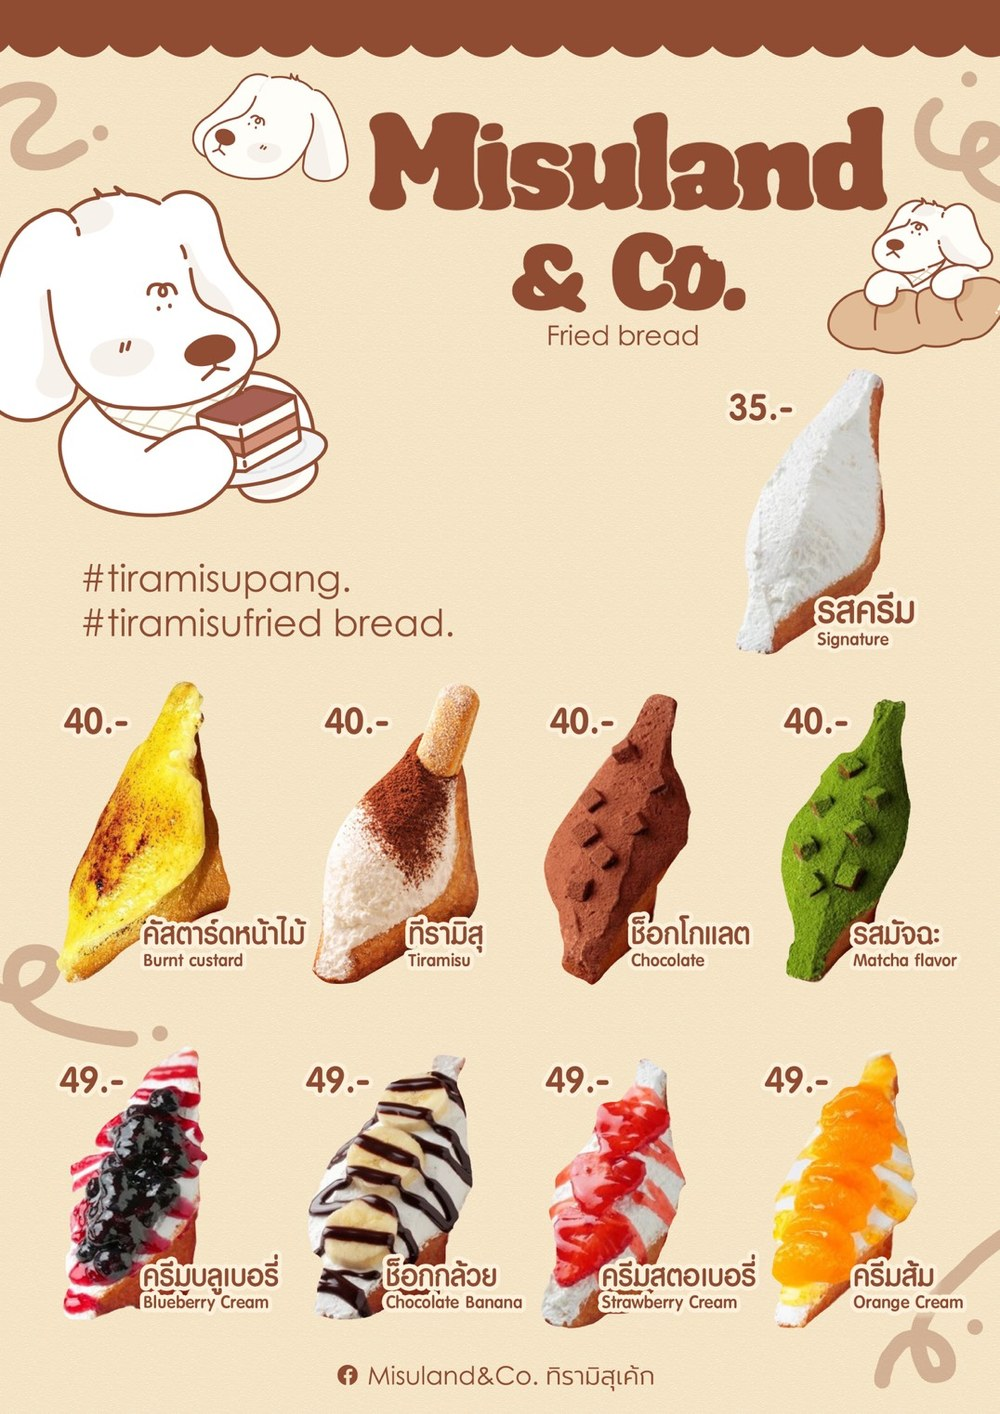
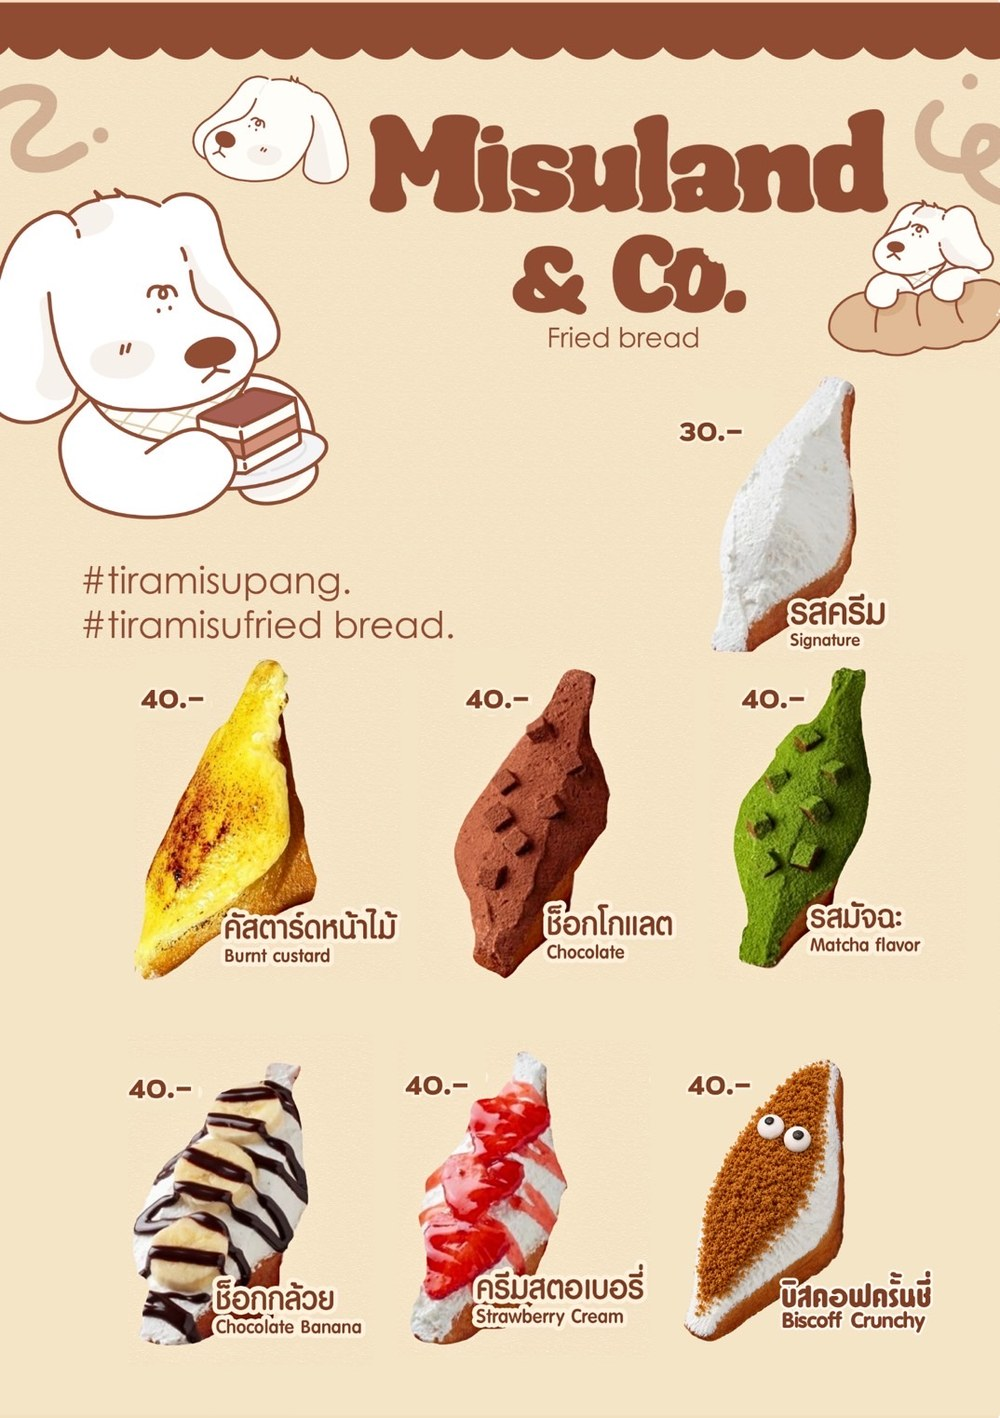
เมนู KS: เพิ่มรูปดูไบ+บิสคอฟ, อัปเดตโปสเตอร์รวม, เพิ่มตัวเลือกรับเอง
- ดูไบ + บิสคอฟครันชี่ ใส่รูปจริง (assets/menu/dubai.jpg, biscoff.jpg) -> ครบ 8 รส
- เปลี่ยน menu-full.jpg เป็นโปสเตอร์ KS 7 รส
- เพิ่มตัวเลือกจัดส่ง "🚗 มารับเองที่ล่างหอ (ฟรีค่าส่ง)"

diff --git a/index-v2.html b/index-v2.html
@@ -182,8 +182,8 @@ section:first-of-type{margin-top:20px;}
     <div class="label"><span class="ic">📍</span>ข้อมูลจัดส่ง</div>
     <div class="field"><label>ชื่อเล่น <small style="color:var(--muted);font-weight:500">(ชื่อเดียวกับในโอเพนแชท)</small></label><input id="f-name" placeholder="ชื่อเดียวกับในโอเพนแชท"></div>
     <div class="field"><label>เบอร์ / LINE ติดต่อ</label><input id="f-contact" placeholder="0xx-xxx-xxxx"></div>
-    <div class="field"><label>โซนจัดส่ง 🚚 <small style="color:var(--muted);font-weight:500">(ค่าส่งคิดตามโซน)</small></label>
-      <select id="f-zone"><option value="">— เลือกโซนจัดส่ง —</option></select></div>
+    <div class="field"><label>รับเอง หรือ จัดส่ง? 🚚 <small style="color:var(--muted);font-weight:500">(มารับเองที่ล่างหอ = ส่งฟรี 0฿)</small></label>
+      <select id="f-zone"><option value="">— เลือกรับเอง / โซนจัดส่ง —</option></select></div>
     <div class="field"><label>หอ/ตึก + ห้อง (ระบุให้ชัด)</label><input id="f-dorm" placeholder="เช่น หอใน 3 ตึก B ห้อง 210"></div>
     <div class="field"><label>หมายเหตุ (ไม่บังคับ)</label><textarea id="f-note" rows="2" placeholder="เช่น แจ้งสิทธิ์ลูกค้าวันแรก 25 มิ.ย."></textarea></div>
   </section>
@@ -267,12 +267,13 @@ const MENU=[
     {name:"คัสตาร์ดหน้าไหม้", price:40, emoji:"🍮", img:"assets/menu/custard.jpg"},
     {name:"ช็อกกล้วย", price:40, emoji:"🍌", img:"assets/menu/chocbanana.jpg"},
     {name:"ครีมสตรอเบอรี่", price:40, emoji:"🍓", img:"assets/menu/strawberry.jpg"},
-    {name:"ช็อกโกแลตดูไบ", price:50, emoji:"💚", tag:"ใหม่"},
-    {name:"บิสคอฟครันชี่", price:40, emoji:"🍪", tag:"ใหม่"},
+    {name:"ช็อกโกแลตดูไบ", price:50, emoji:"💚", tag:"ใหม่", img:"assets/menu/dubai.jpg"},
+    {name:"บิสคอฟครันชี่", price:40, emoji:"🍪", tag:"ใหม่", img:"assets/menu/biscoff.jpg"},
   ]},
 ];
 
 const ZONES=[
+  {label:"🚗 มารับเองที่ล่างหอ (ฟรีค่าส่ง)", fee:0},
   {label:"หอ VS (ส่งฟรี)", fee:0},
   {label:"หน้า ม.เกษตร กำแพงแสน (หอพัก/ร้านค้า)", fee:10},
   {label:"หอมาตาล/AW/นกฯ/บ้านแสนสุข/ในซอยชบาขึ้นไป", fee:15},

diff --git a/index.html b/index.html
@@ -182,8 +182,8 @@ section:first-of-type{margin-top:20px;}
     <div class="label"><span class="ic">📍</span>ข้อมูลจัดส่ง</div>
     <div class="field"><label>ชื่อเล่น <small style="color:var(--muted);font-weight:500">(ชื่อเดียวกับในโอเพนแชท)</small></label><input id="f-name" placeholder="ชื่อเดียวกับในโอเพนแชท"></div>
     <div class="field"><label>เบอร์ / LINE ติดต่อ</label><input id="f-contact" placeholder="0xx-xxx-xxxx"></div>
-    <div class="field"><label>โซนจัดส่ง 🚚 <small style="color:var(--muted);font-weight:500">(ค่าส่งคิดตามโซน)</small></label>
-      <select id="f-zone"><option value="">— เลือกโซนจัดส่ง —</option></select></div>
+    <div class="field"><label>รับเอง หรือ จัดส่ง? 🚚 <small style="color:var(--muted);font-weight:500">(มารับเองที่ล่างหอ = ส่งฟรี 0฿)</small></label>
+      <select id="f-zone"><option value="">— เลือกรับเอง / โซนจัดส่ง —</option></select></div>
     <div class="field"><label>หอ/ตึก + ห้อง (ระบุให้ชัด)</label><input id="f-dorm" placeholder="เช่น หอใน 3 ตึก B ห้อง 210"></div>
     <div class="field"><label>หมายเหตุ (ไม่บังคับ)</label><textarea id="f-note" rows="2" placeholder="เช่น แจ้งสิทธิ์ลูกค้าวันแรก 25 มิ.ย."></textarea></div>
   </section>
@@ -267,12 +267,13 @@ const MENU=[
     {name:"คัสตาร์ดหน้าไหม้", price:40, emoji:"🍮", img:"assets/menu/custard.jpg"},
     {name:"ช็อกกล้วย", price:40, emoji:"🍌", img:"assets/menu/chocbanana.jpg"},
     {name:"ครีมสตรอเบอรี่", price:40, emoji:"🍓", img:"assets/menu/strawberry.jpg"},
-    {name:"ช็อกโกแลตดูไบ", price:50, emoji:"💚", tag:"ใหม่"},
-    {name:"บิสคอฟครันชี่", price:40, emoji:"🍪", tag:"ใหม่"},
+    {name:"ช็อกโกแลตดูไบ", price:50, emoji:"💚", tag:"ใหม่", img:"assets/menu/dubai.jpg"},
+    {name:"บิสคอฟครันชี่", price:40, emoji:"🍪", tag:"ใหม่", img:"assets/menu/biscoff.jpg"},
   ]},
 ];
 
 const ZONES=[
+  {label:"🚗 มารับเองที่ล่างหอ (ฟรีค่าส่ง)", fee:0},
   {label:"หอ VS (ส่งฟรี)", fee:0},
   {label:"หน้า ม.เกษตร กำแพงแสน (หอพัก/ร้านค้า)", fee:10},
   {label:"หอมาตาล/AW/นกฯ/บ้านแสนสุข/ในซอยชบาขึ้นไป", fee:15},